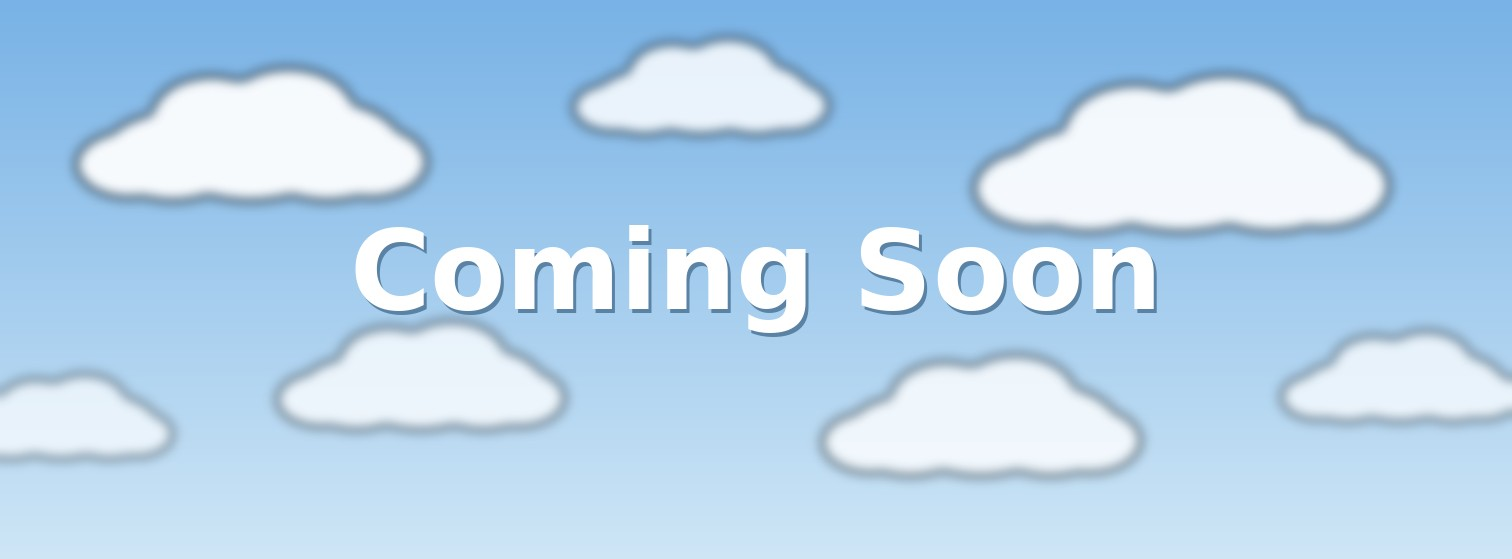
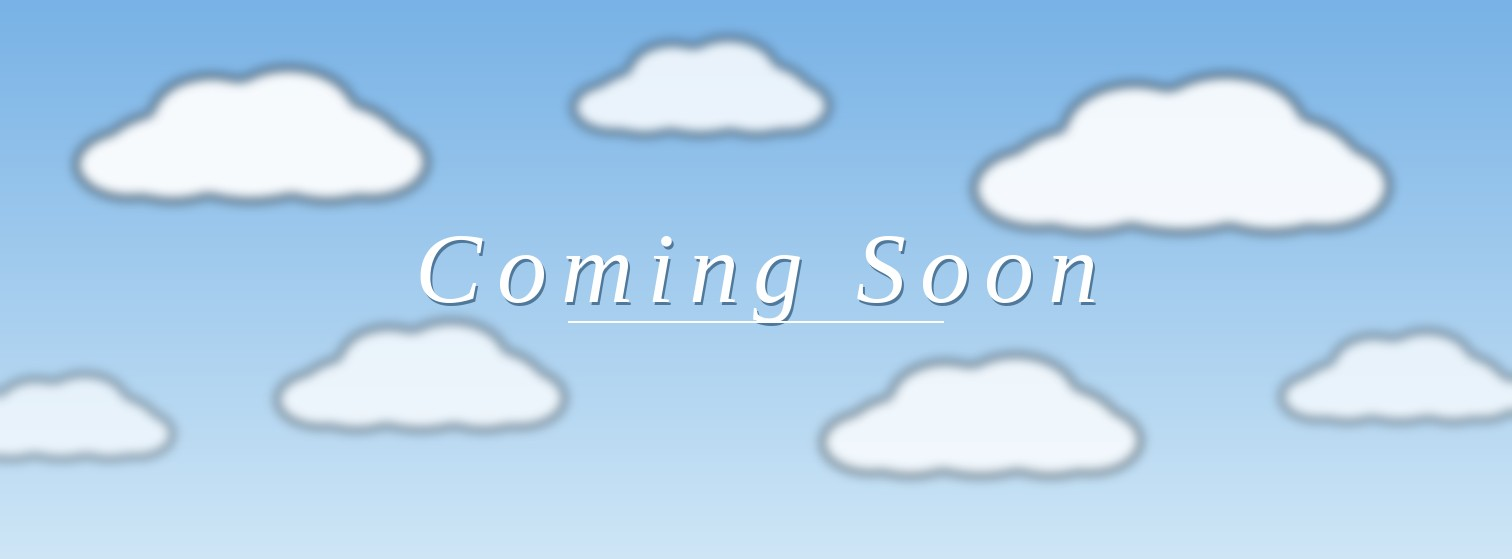
Add files via upload

Changed region(s): [[0.2176, 0.3953, 0.7771, 0.6082]]

diff --git a/index.html b/index.html
@@ -228,11 +228,18 @@
   }
 
   .photo-trio img {
-    flex: 1 1 0;
-    width: 100%;
     height: 100%;
     object-fit: cover;
     display: block;
+  }
+
+  .photo-trio img.side-photo {
+    flex: 0 0 38%;
+  }
+
+  .photo-trio img.filler-photo {
+    flex: 1 1 auto;
+    min-width: 0;
   }
 
   @media (max-width: 480px) {
@@ -545,9 +552,9 @@
 
       <div class="activity">
         <div class="photo-trio">
-          <img src="reiki.jpg" alt="Reiki practitioner working on a guest lying in the pasture">
-          <img src="alpacas.jpg" alt="Alpacas grazing at Bend Alpaca Ranch">
-          <img src="sound-bath.jpg" alt="Sound bath practitioner playing crystal singing bowls">
+          <img class="side-photo" src="reiki.jpg" alt="Reiki practitioner working on a guest lying in the pasture">
+          <img class="filler-photo" src="alpacas-cropped.jpg" alt="Alpacas grazing at Bend Alpaca Ranch">
+          <img class="side-photo" src="sound-bath.jpg" alt="Sound bath practitioner playing crystal singing bowls">
         </div>
         <div class="activity-top">
           <h3 class="activity-name">Reiki-Infused Sound Bath</h3>
